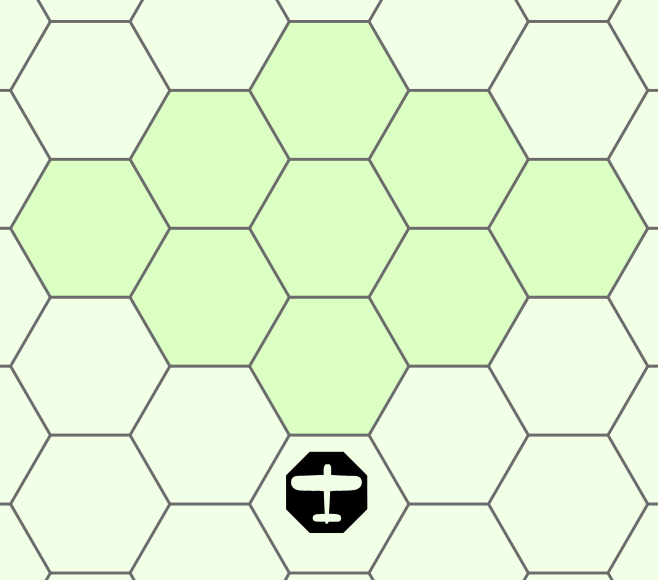
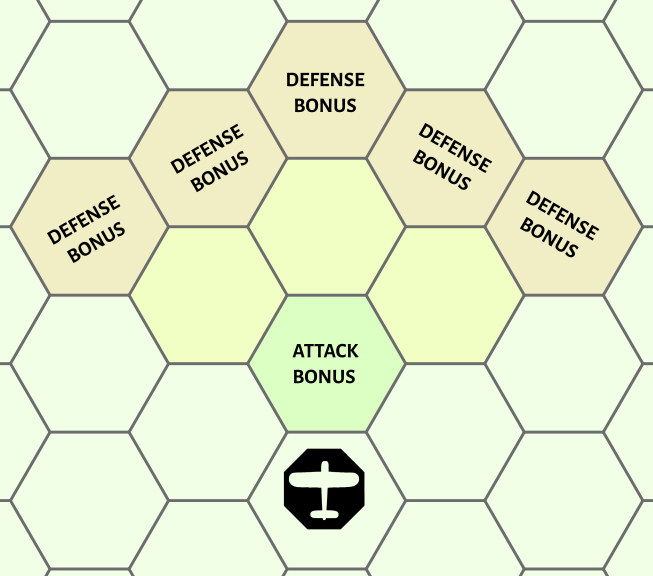
Rule for range modifiers on hex grid

diff --git a/README.md b/README.md
@@ -220,6 +220,8 @@ Instead of using the movement templates there are three possible moves on a hex 
 
 Attacks are up to range 3. Count range in hexes, not including the hex occupied by the attacking plane, but including the attacked plane. The firing arc of a plane is a cone in front of it, starting with the single hex in front, then the 3 hexes in front of that, then the 5 beyond those.
 
+The hexes immediately in front of the firing plane corresponds to the closest section of the range ruler for the purpose of attack bonuses. Hexes at range 3 corresponds to the furthest section of the range ruler.
+
 ![hex_fire_arc](https://user-images.githubusercontent.com/91621088/167960090-ac8a2d9d-62a3-431c-a0a2-f6d53c963038.png)
 
 ### D6 Rule
